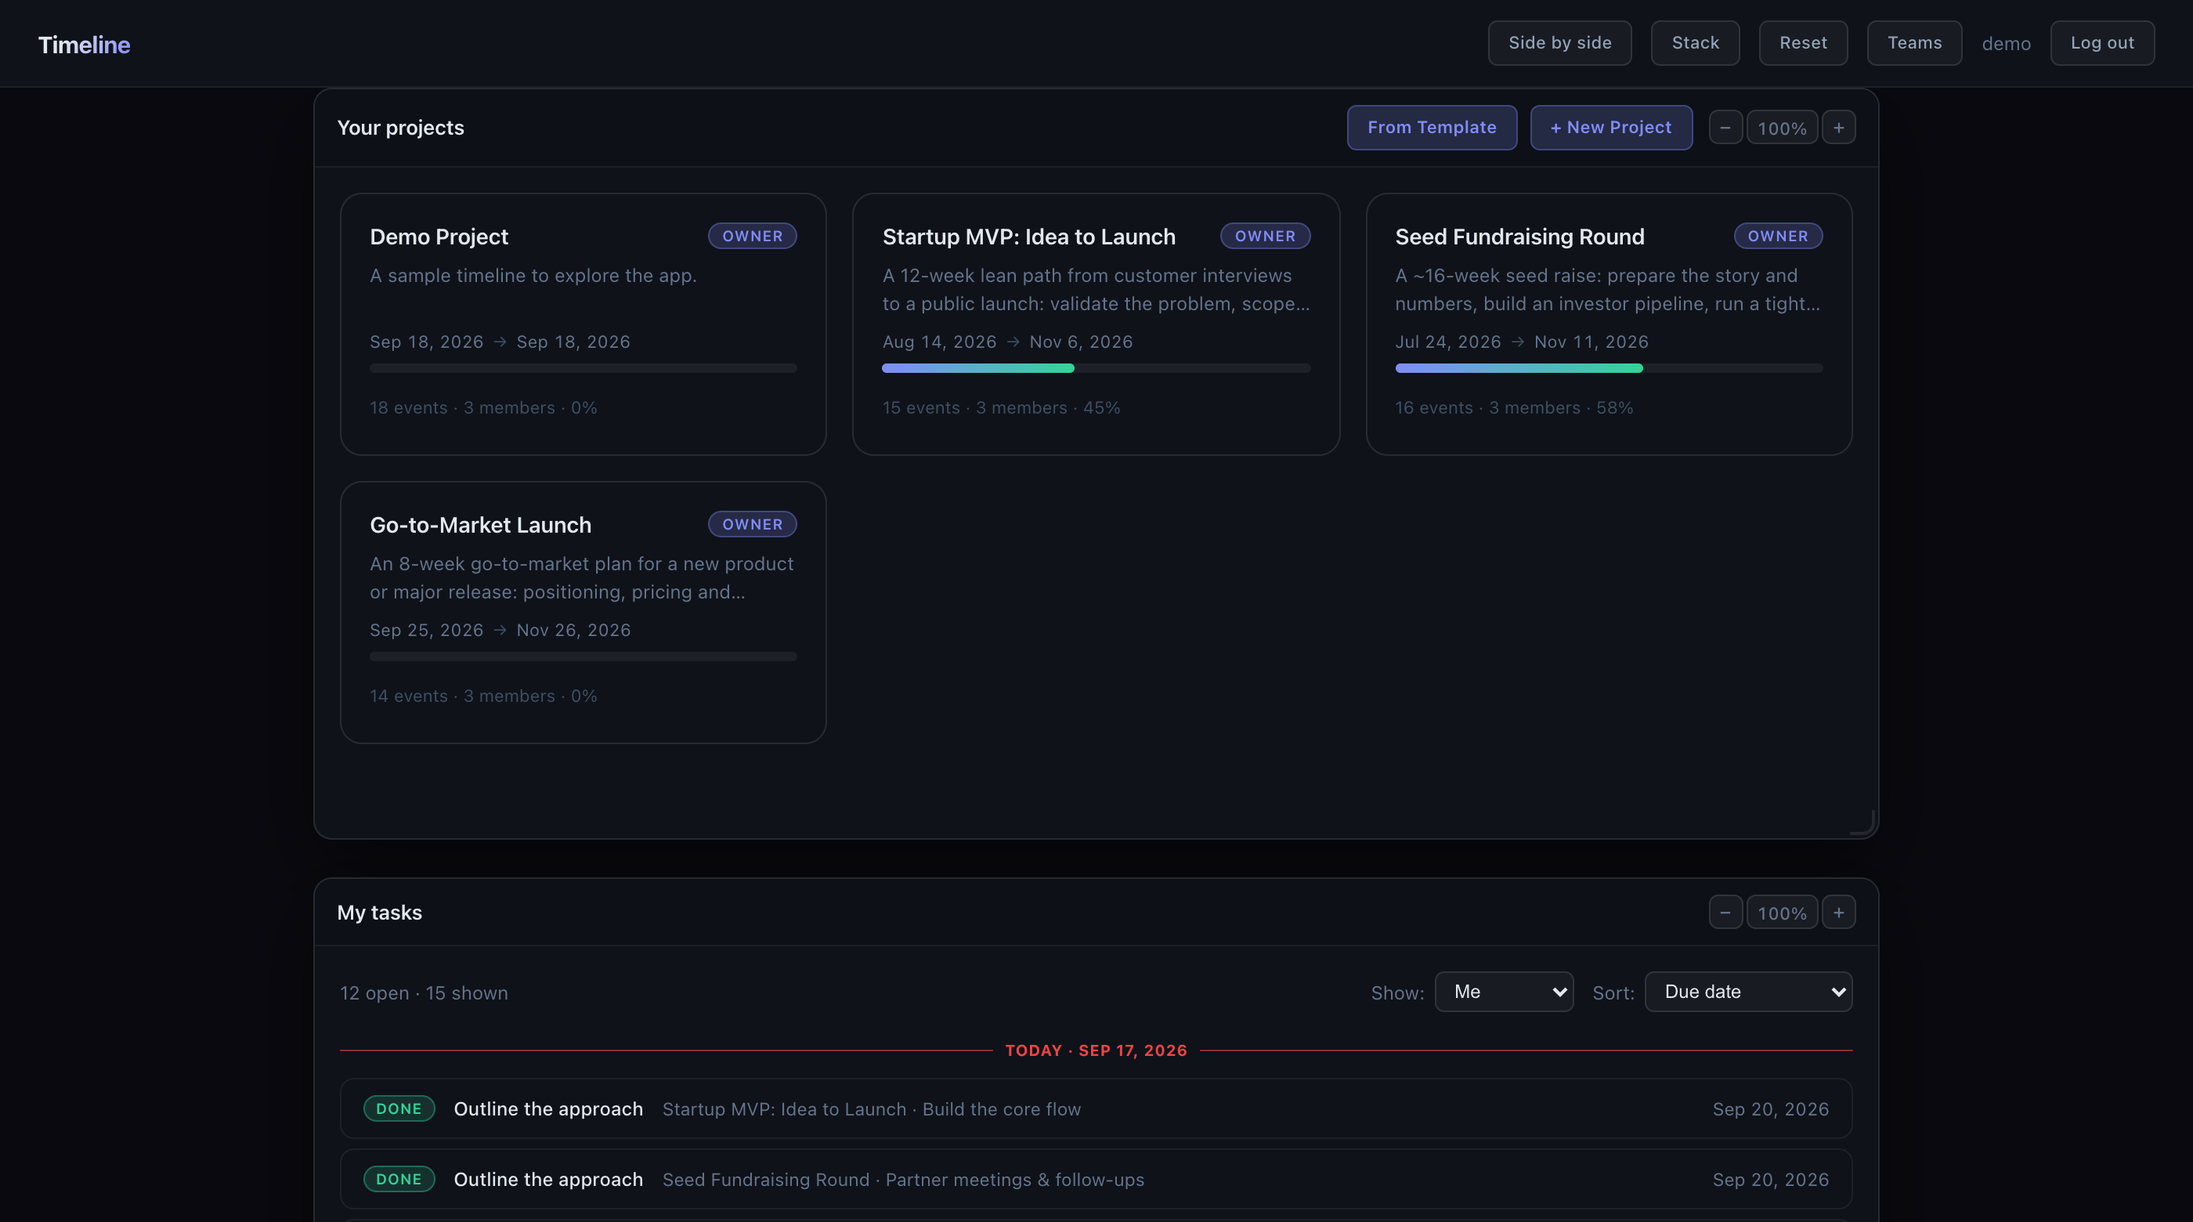
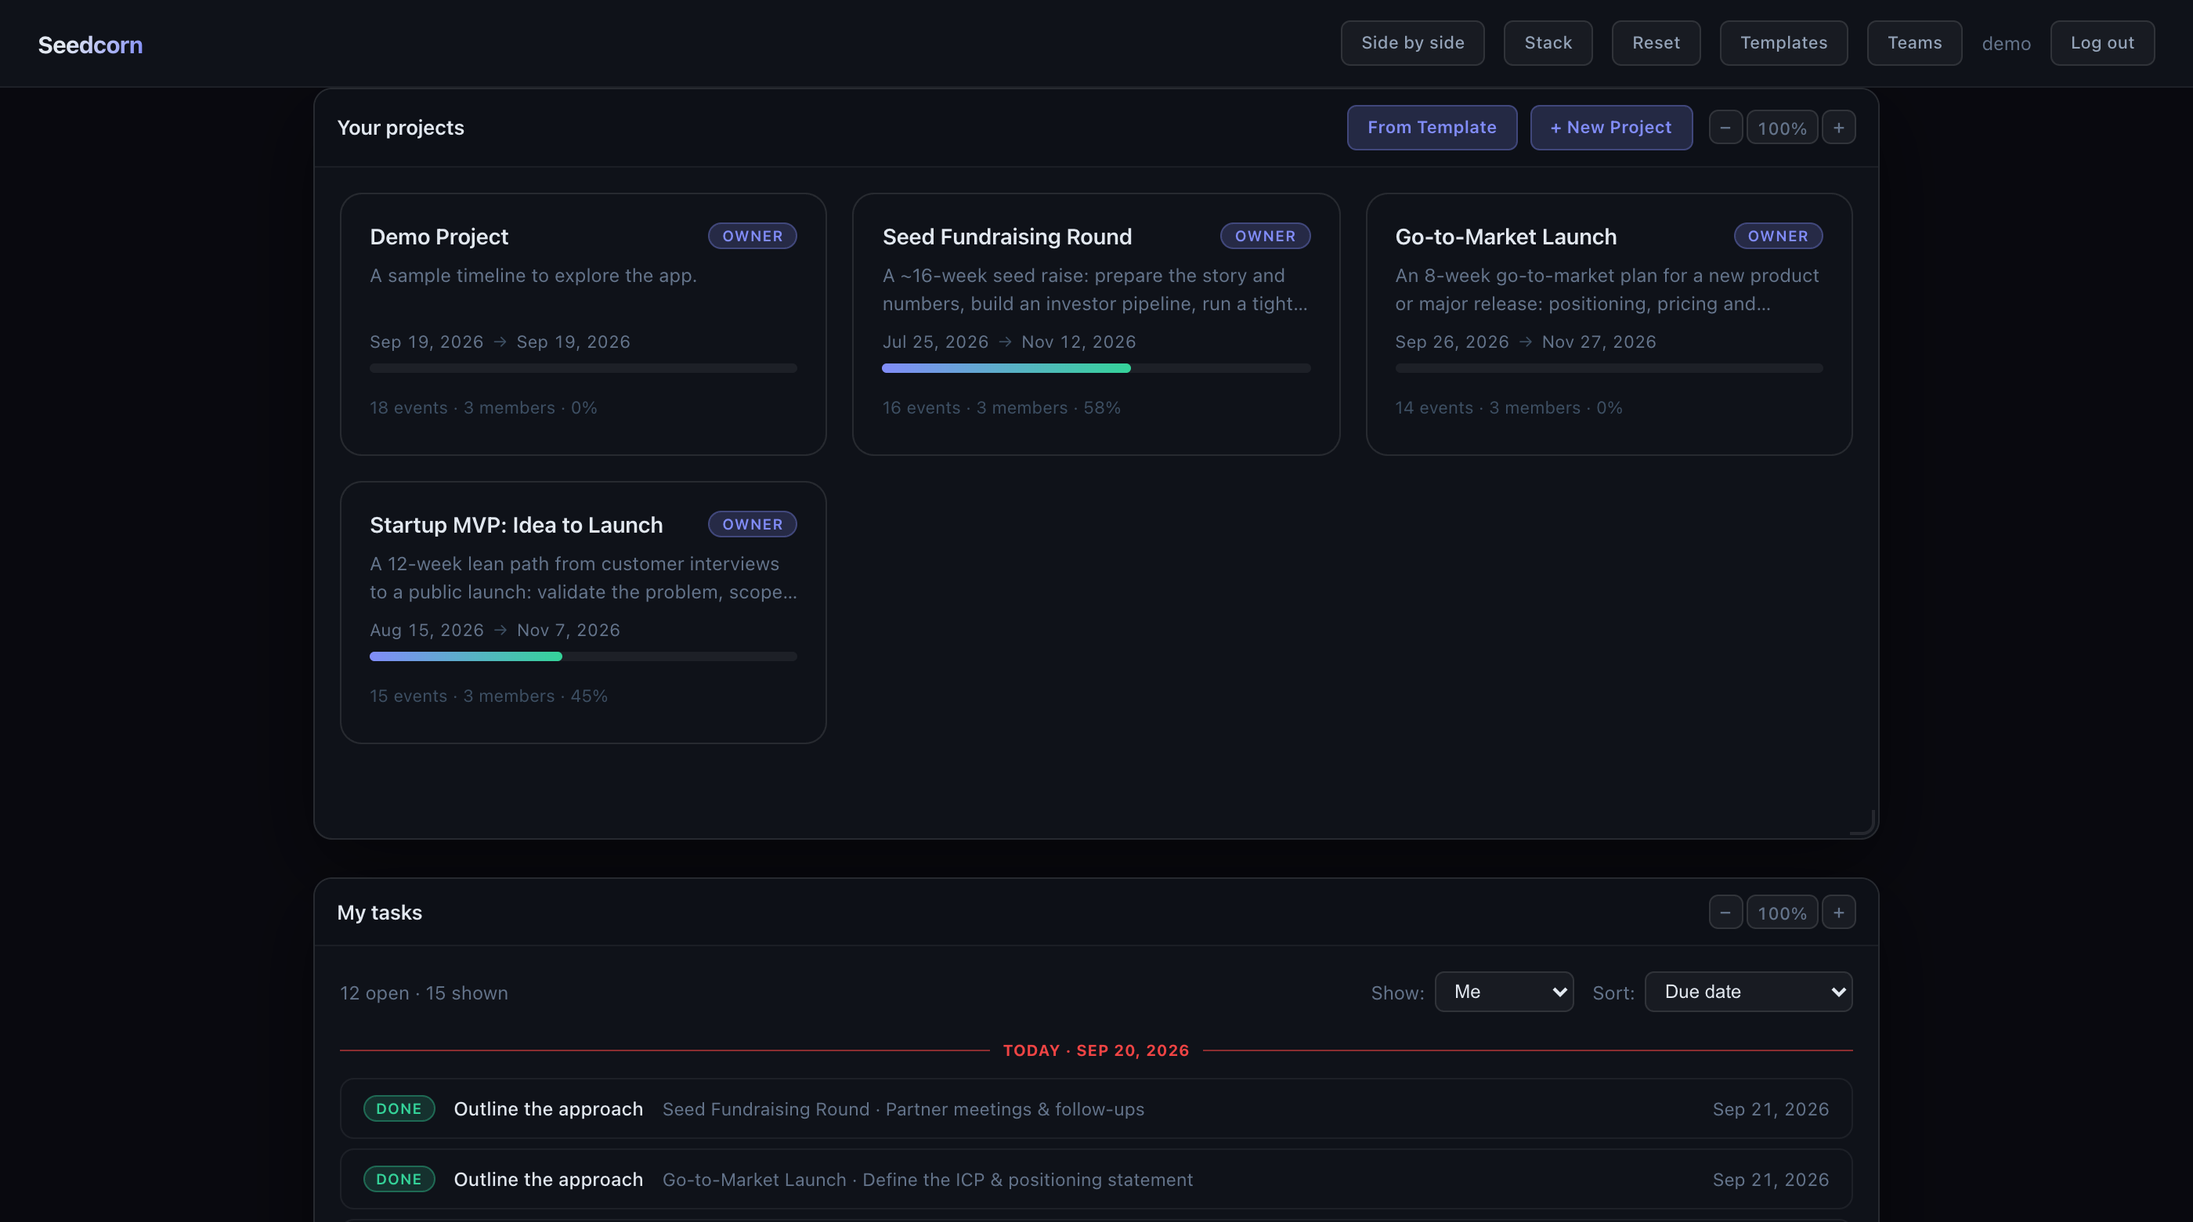
Timeline is now Seedcorn
"Timeline" described one view of the app and could not be found by searching.
Seedcorn is the grain a farmer keeps back from this harvest to plant the next
one, which is what a plan that worked is: run a project, adjust the plan as
you go, and hand the version that got you there to whoever does it next.

The change itself is two values (frontend/brand.json and the APP_NAME
default), made possible by the earlier move to a single source for the name.
Everything else is wording: README with a "formerly Timeline" note, changelog
1.1.0, NOTICE, SECURITY, CONTRIBUTING, third-party licenses, user guide,
architecture and deployment docs, the issue template, the API docs title, the
package name, and every README image that shows the name.

Unchanged on purpose: the Timeline *view* keeps its name, and so do the
internal names nobody sees (the Django package, Docker images, server paths,
storage keys) and the app's address. Calendar entries already imported keep
updating, because their IDs never contained the product's name.

Assisted-by: Claude

diff --git a/frontend/src/components/Toolbar.jsx b/frontend/src/components/Toolbar.jsx
@@ -1,4 +1,5 @@
 import { useState, useEffect, useRef } from 'react'
+import { BRAND } from '../constants'
 
 function fmtDT(ms) {
   const d = new Date(ms)
@@ -43,7 +44,7 @@ export default function Toolbar({ projectName, onBack, canEdit = true, isOwner =
   return (
     <div className="toolbar">
       <button className="btn-back" onClick={onBack} title="Back to projects">←</button>
-      <h1>{projectName || 'Timeline'}</h1>
+      <h1>{projectName || BRAND}</h1>
       {!canEdit && <span className="ro-badge" title="You have view-only access">View only</span>}
       {closedOut && (
         <button className="closed-badge" onClick={onCloseout} title="This project has been closed out. Open to see the answers.">Closed out</button>

diff --git a/backend/timeline_project/settings.py b/backend/timeline_project/settings.py
@@ -156,13 +156,18 @@ REST_FRAMEWORK = {
     },
 }
 
+# The product's name wherever the server says it: email subjects and sign-offs, the source mark on
+# an exported status report, the calendar PRODID,
+# the API documentation title. Set APP_NAME to put your own name on your copy.
+APP_NAME = env.str('APP_NAME', default='Seedcorn').strip() or 'Seedcorn'
+
 SPECTACULAR_SETTINGS = {
-    'TITLE': 'Timeline API',
+    'TITLE': f'{APP_NAME} API',
     'DESCRIPTION': 'Multi-tenant, team-based project-planning API. '
                    'Authenticate via JWT (POST /api/auth/token/), then send '
                    'Authorization: Bearer <access>. All project data is scoped to '
                    'projects you are a member of.',
-    'VERSION': '1.0.0',
+    'VERSION': '1.1.0',
     'SERVE_INCLUDE_SCHEMA': False,        # don't expose the raw schema in the UIs
     'SERVE_PERMISSIONS': ['rest_framework.permissions.AllowAny'],
     'SWAGGER_UI_SETTINGS': {'persistAuthorization': True},
@@ -202,10 +207,6 @@ if MAILERS['default']['BACKEND'].endswith('smtp.EmailBackend'):
         'username': _email_user,
         'password': env('EMAIL_HOST_PASSWORD', default=''),
     }
-# The product's name wherever the server says it: email subjects and sign-offs, the source mark on
-# an exported status report, the calendar PRODID. Set APP_NAME to put your own name on your copy.
-APP_NAME = env.str('APP_NAME', default='Timeline').strip() or 'Timeline'
-
 DEFAULT_FROM_EMAIL = env('DEFAULT_FROM_EMAIL',
                          default=(_email_user or f'{APP_NAME} <no-reply@localhost>'))
 SERVER_EMAIL = DEFAULT_FROM_EMAIL

diff --git a/README.md b/README.md
@@ -1,14 +1,18 @@
-# Timeline
+# Seedcorn
 
-[![CI](https://github.com/vakahnke/Timeline/actions/workflows/ci.yml/badge.svg)](https://github.com/vakahnke/Timeline/actions/workflows/ci.yml)
-[![Release](https://img.shields.io/github/v/release/vakahnke/Timeline?color=8b93ff)](https://github.com/vakahnke/Timeline/releases)
+> **Formerly "Timeline".** Same project, same license, same code; the old links redirect here.
+> *Seedcorn* is the grain a farmer keeps back from this harvest to plant the next one. That is what
+> a plan that worked is.
+
+[![CI](https://github.com/vakahnke/seedcorn/actions/workflows/ci.yml/badge.svg)](https://github.com/vakahnke/seedcorn/actions/workflows/ci.yml)
+[![Release](https://img.shields.io/github/v/release/vakahnke/seedcorn?color=8b93ff)](https://github.com/vakahnke/seedcorn/releases)
 [![License: Apache 2.0](https://img.shields.io/badge/license-Apache%202.0-blue.svg)](LICENSE)
 [![Live demo](https://img.shields.io/badge/live%20demo-try%20it-8b93ff.svg)](https://web-production-28ba24.up.railway.app)
 [![Self-hosted](https://img.shields.io/badge/self--hosted-Docker-2496ED.svg)](#run-it-yourself-in-two-minutes)
 
 **Plan it. Try the plan. Adjust the plan as you go and share the successful result.**
 
-Timeline is a self-hosted project planner for the person who has to get something
+Seedcorn is a self-hosted project planner for the person who has to get something
 big done, often for the first time: a product launch, a fundraise, an office move,
 a hiring push, a first marathon. You work out the steps and put them on a timeline you
 can actually grab. Then you run the project from it, and the plan changes as you learn:
@@ -43,7 +47,7 @@ Most projects are not new. They are the second product launch, the fourth hire, 
 annual conference. But the plan from last time lives in someone's head, a stale
 document, or a spreadsheet nobody trusts, so every run starts over.
 
-Timeline treats a finished project as the most valuable thing you own. Any project
+Seedcorn treats a finished project as the most valuable thing you own. Any project
 can be saved as a template in one step. It keeps the tracks, the events, their
 durations and dependencies, the notes, which events are key milestones, and the to-do
 list inside each event. It forgets what belonged to that one run: the dates, the
@@ -94,7 +98,7 @@ An operator can limit sharing to teams, or switch it off, with `TEMPLATE_LIBRARY
 Still to come: handing a template to another server as a file, and a community
 gallery ([design](docs/design/template-library.md)).
 
-Timeline ships with built-in plans so you can see the idea before you have a
+Seedcorn ships with built-in plans so you can see the idea before you have a
 library of your own:
 
 - **Business:** Startup MVP: Idea to Launch, Seed Fundraising Round, Customer
@@ -115,7 +119,7 @@ has to do a big thing well, and a marathon has dependencies too.
 
 Most project managers rebuild the same slide by hand every week or two: copy the
 dates into PowerPoint, pick a color, and hope the numbers still match the plan.
-Timeline writes that page from the schedule itself. Click **Status report** in a
+Seedcorn writes that page from the schedule itself. Click **Status report** in a
 project's toolbar and it opens already filled in.
 
 ![The status report print tool: the page on the right, what it shows on the left](docs/images/status-report-tool.png)
@@ -192,8 +196,8 @@ Requires [Docker](https://docs.docker.com/get-docker/). No other setup: no `.env
 no database to install.
 
 ```bash
-git clone https://github.com/vakahnke/Timeline.git
-cd Timeline
+git clone https://github.com/vakahnke/seedcorn.git
+cd seedcorn
 SEED_DEMO=1 docker compose up --build
 ```
 
@@ -364,7 +368,7 @@ All endpoints take a JWT in the `Authorization` header. The live schema at
 ## Project structure
 
 ```
-Timeline/
+seedcorn/
 ├── backend/                 # Django + DRF
 │   ├── timeline_project/     # settings, root urls, wsgi
 │   ├── projects/             # tenancy: Project, Membership, Team, Template, auth, permissions
@@ -404,10 +408,10 @@ document that captures the current state, prior art, and the proposed design,
 so the discussion happens before the code.
 
 Open issues with context and pointers into the code are in the
-[issue tracker](https://github.com/vakahnke/Timeline/issues); the ones marked
-[good first issue](https://github.com/vakahnke/Timeline/issues?q=is%3Aissue+is%3Aopen+label%3A%22good+first+issue%22)
+[issue tracker](https://github.com/vakahnke/seedcorn/issues); the ones marked
+[good first issue](https://github.com/vakahnke/seedcorn/issues?q=is%3Aissue+is%3Aopen+label%3A%22good+first+issue%22)
 are the easiest way in, and one of them needs no coding at all. Questions and ideas are welcome in
-[Discussions](https://github.com/vakahnke/Timeline/discussions).
+[Discussions](https://github.com/vakahnke/seedcorn/discussions).
 
 Some directions that would be good contributions, roughly in order of effort:
 
@@ -437,12 +441,12 @@ I manage projects for a living. Every project I ran taught me something about ho
 run the next one, and none of my tools had a place to keep that. I wanted a planner
 where the plan is the thing you build, and a finished plan is the thing you keep:
 grab an event and move it, see what it pushes, hand leadership a slide without
-rebuilding it by hand, and when it is done, save it for next time. I did not have the coding chops to build that alone. Timeline was built with
+rebuilding it by hand, and when it is done, save it for next time. I did not have the coding chops to build that alone. Seedcorn was built with
 a great deal of help from an AI coding assistant (Claude), and every change is tested and checked
 against the running app before it ships. Bug reports, ideas and pull requests are all welcome; the
-[issues](https://github.com/vakahnke/Timeline/issues) marked *good first issue* are a fine place to start.
+[issues](https://github.com/vakahnke/seedcorn/issues) marked *good first issue* are a fine place to start.
 
-If Timeline is useful to you, a star helps other people find it.
+If Seedcorn is useful to you, a star helps other people find it.
 
 ## License
 

diff --git a/CHANGELOG.md b/CHANGELOG.md
@@ -1,9 +1,24 @@
 # Changelog
 
-Notable changes to Timeline. The format follows [Keep a Changelog](https://keepachangelog.com/),
+Notable changes to Seedcorn (called "Timeline" up to version 1.0.0). The format follows [Keep a Changelog](https://keepachangelog.com/),
 and versions follow [Semantic Versioning](https://semver.org/).
 
 ## [Unreleased]
+
+## [1.1.0] - 2026-09-20
+
+### Timeline is now Seedcorn
+- **The project has a new name.** "Timeline" described one view of the app and could not be found
+  by searching. *Seedcorn* is the grain a farmer keeps back from this harvest to plant the next one,
+  which is what a plan that worked is: you run a project, adjust the plan as you go, and hand the
+  version that got you there to whoever does it next. Nothing else changes: same code, same Apache
+  2.0 license, same data, same URLs inside the app. The repository moved to
+  `github.com/vakahnke/seedcorn`; the old address redirects, and existing clones keep working.
+- If you host your own copy, the name now shown in the app, in emails and in exports is "Seedcorn".
+  Set `APP_NAME` (server) and `VITE_APP_NAME` (app build) to keep the old name or use your own.
+  Mail filters built on "[Timeline]" in the subject need updating. Calendar entries already
+  imported keep updating: their IDs never contained the product's name.
+- The word "Timeline" still names the timeline *view*, as before.
 
 ### Added
 - **A template library.** A saved template can be shared with chosen teams or with everyone on
@@ -41,7 +56,7 @@ and versions follow [Semantic Versioning](https://semver.org/).
   template keeps key-milestone flags and each event's to-do list, and no longer carries progress:
   a project started from it begins at zero percent with every to-do open and assigned to you.
   Templates saved earlier also start at zero.
-- The README leads with what Timeline is for: plan it, try the plan, adjust it as you go, and
+- The README leads with what the project is for: plan it, try the plan, adjust it as you go, and
   share the successful result.
 
 ### Fixed
@@ -93,4 +108,5 @@ The first tagged release. Everything below is in it.
   platforms like Railway.
 - Django 6.1, React 19, Vite 8, PostgreSQL 15+. Dependabot, secret scanning and CI are enabled.
 
-[1.0.0]: https://github.com/vakahnke/Timeline/releases/tag/v1.0.0
+[1.1.0]: https://github.com/vakahnke/seedcorn/releases/tag/v1.1.0
+[1.0.0]: https://github.com/vakahnke/seedcorn/releases/tag/v1.0.0

diff --git a/THIRD_PARTY_LICENSES.md b/THIRD_PARTY_LICENSES.md
@@ -1,12 +1,12 @@
 # Third-party licenses
 
-Timeline itself is licensed under the Apache License 2.0 (see `LICENSE` and
+Seedcorn itself is licensed under the Apache License 2.0 (see `LICENSE` and
 `NOTICE`). It depends on the open source packages below, which are downloaded
 at build time by pip and npm rather than vendored in this repository. Each stays
 under its own license, reproduced in full inside the installed package
 (`site-packages/<name>-<version>.dist-info/` for Python, `node_modules/<name>/`
 for JavaScript). This file preserves the attribution those licenses require
-when Timeline is redistributed, for example as a built container image.
+when Seedcorn is redistributed, for example as a built container image.
 
 Versions are the ranges pinned in `backend/requirements.txt` and
 `frontend/package.json`; the installed versions may be newer within those
@@ -37,8 +37,8 @@ ranges.
 | typing_extensions (via python-pptx) | PSF-2.0 | Python Software Foundation | https://github.com/python/typing_extensions |
 
 psycopg is used unmodified as a library. Its LGPL terms apply to psycopg
-itself; Timeline's own code is not derived from it. If you redistribute a build
-of Timeline, keep psycopg replaceable (it is installed from PyPI at build time)
+itself; Seedcorn's own code is not derived from it. If you redistribute a build
+of Seedcorn, keep psycopg replaceable (it is installed from PyPI at build time)
 and include its license text, which ships in the package.
 
 ## Frontend (JavaScript)

diff --git a/docs/DEPLOYMENT.md b/docs/DEPLOYMENT.md
@@ -58,7 +58,7 @@ Defined in `.env` and injected into the containers.
 | `DJANGO_SECURE_SSL_REDIRECT` | backend | prod, behind TLS |
 | `RUN_COLLECTSTATIC` | backend | `0` dev, `1` prod (entrypoint runs `collectstatic`) |
 | `REQUIRE_ACCOUNT_APPROVAL` | backend | `1` (default): new sign-ups inactive until approved; `0` to disable |
-| `APP_NAME` | backend | The product's name in emails, exported status reports and calendar files (default `Timeline`). Set it to put your own name on your copy |
+| `APP_NAME` | backend | The product's name in emails, exported status reports and calendar files (default `Seedcorn`). Set it to put your own name on your copy |
 | `VITE_APP_NAME` | frontend (build time) | The same name inside the app and in the browser tab. A build argument, like `VITE_DEMO_BANNER`; the default is in `frontend/brand.json` |
 | `DEFAULT_CURRENCY` | backend | Three-letter currency offered first when a project is closed out (default `USD`). Figures are never converted |
 | `TEMPLATE_LIBRARY` | backend | How far a saved template may be shared: `instance` (default; teams or everyone signed in), `teams`, or `off` (templates stay private) |

diff --git a/docs/AWS_DEPLOYMENT.md b/docs/AWS_DEPLOYMENT.md
@@ -1,6 +1,6 @@
 # AWS Deployment (EC2 + Elastic IP + Cloudflare + HTTPS)
 
-This deploys Timeline to a **single EC2 instance** — Postgres, gunicorn, and nginx all in
+This deploys Seedcorn to a **single EC2 instance** — Postgres, gunicorn, and nginx all in
 Docker on the box, behind an **elastic IP**, with DNS and TLS on **Cloudflare**. Cloudflare's
 proxy terminates browser-facing HTTPS at its edge; nginx presents a **Cloudflare Origin
 Certificate** to secure the Cloudflare→origin leg. Infrastructure is managed with **Terraform**.
@@ -58,7 +58,7 @@ Create an **A record**: `timeline.example.com → <elastic IP>`.
 ```bash
 ssh ec2-user@<elastic IP>
 cd /opt/timeline
-git clone https://github.com/vakahnke/Timeline.git .
+git clone https://github.com/vakahnke/seedcorn.git .
 cp .env.example .env
 ```
 

diff --git a/SECURITY.md b/SECURITY.md
@@ -17,7 +17,7 @@ published through GitHub once a fix is available.
 
 ## Scope
 
-Timeline is self-hosted. The things most worth reporting are:
+Seedcorn is self-hosted. The things most worth reporting are:
 
 - Any way for a user to read or change a project they are not a member of.
 - Authentication or token-handling flaws in the JWT flow.
@@ -26,7 +26,7 @@ Timeline is self-hosted. The things most worth reporting are:
   than intended.
 
 Vulnerabilities in third-party dependencies should go to those projects, but a
-note here is still useful if Timeline's usage makes the issue exploitable.
+note here is still useful if Seedcorn's usage makes the issue exploitable.
 
 ## Supported versions
 

diff --git a/CONTRIBUTING.md b/CONTRIBUTING.md
@@ -1,4 +1,4 @@
-# Contributing to Timeline
+# Contributing to Seedcorn
 
 Thanks for taking the time. Contributions of every size are welcome: bug reports,
 typo fixes, new templates, new features. This page tells you how to get a change
@@ -20,8 +20,8 @@ in with the least friction.
 Everything runs in Docker with hot reload. No local Python or Node needed.
 
 ```bash
-git clone https://github.com/<you>/Timeline.git
-cd Timeline
+git clone https://github.com/<you>/seedcorn.git
+cd seedcorn
 SEED_DEMO=1 docker compose up --build
 ```
 

diff --git a/docs/ARCHITECTURE.md b/docs/ARCHITECTURE.md
@@ -1,6 +1,6 @@
 # Architecture
 
-Timeline is a decoupled **React single-page app** talking to a **Django REST Framework** API over
+Seedcorn is a decoupled **React single-page app** talking to a **Django REST Framework** API over
 JWT, backed by **PostgreSQL**. In production one nginx origin serves the built app and
 reverse-proxies the API.
 

diff --git a/terraform/README.md b/terraform/README.md
@@ -1,4 +1,4 @@
-# Terraform — Timeline infrastructure
+# Terraform — Seedcorn infrastructure
 
 Provisions a single EC2 instance for the production stack: a minimal VPC + public subnet +
 internet gateway, a security group (SSH restricted, 80/443 open), an Amazon Linux 2023

diff --git a/docs/USER_GUIDE.md b/docs/USER_GUIDE.md
@@ -1,6 +1,6 @@
 # User Guide
 
-How to use Timeline day to day. (To run it, see the [README](../README.md) and
+How to use Seedcorn day to day. (To run it, see the [README](../README.md) and
 [Deployment](DEPLOYMENT.md).)
 
 ## 1. Accounts
